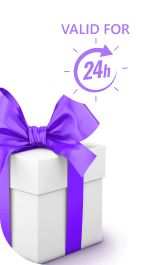
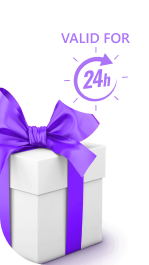
Kostil

diff --git a/resources/js/app.js b/resources/js/app.js
@@ -52,8 +52,8 @@ document.addEventListener('livewire:init', () => {
 
 
 window.addEventListener('wheel_spin', (event) => {
+    Livewire.dispatch('wheel_result');
     setTimeout(() => {
-        Livewire.dispatch('wheel_result');
     }, event.detail.result.time * 1000)
     
 })

diff --git a/resources/sass/app.scss b/resources/sass/app.scss
@@ -1499,7 +1499,7 @@ body {
     }
     &__steps-content {
         width: 506px;
-        padding: 30px 136px 30px 140px;
+        padding: 30px 116px 30px 160px;
         box-sizing: border-box;
         background: var(--bg);
         border-radius: 50px 0 0 50px;

diff --git a/resources/views/livewire/main/wheel.blade.php b/resources/views/livewire/main/wheel.blade.php
@@ -68,7 +68,7 @@
             </div>
         </div>
 
-        <div class="main_wheel__steps-content" style="--bg: #ac74f6 url({{ asset('assets/images/wheel_steps_bg.png') }}) 0 0 / contain no-repeat";>
+        <div class="main_wheel__steps-content" style="--bg: #ac74f6 url({{ asset('assets/images/wheel_steps_bg.png') }}) bottom 0 left 0 / auto 97% no-repeat";>
             <div class="main_wheel__steps-content-top">
                 <div class="title">Congratulations!</div>
                 <div class="closer" wire:click="close_stepper">
@@ -84,9 +84,9 @@
                             You’ve earned {{ $this->sectors[$this->index] }} credit which has been added to your wallet
                         @endif
                     </div>
-                    {{-- <div class="text">
+                    <div class="text">
                         Promo code: [UNIQUECODE]
-                    </div> --}}
+                    </div>
                 </div>
                 <div class="main_wheel__steps-button">
                     Want to spin again?
